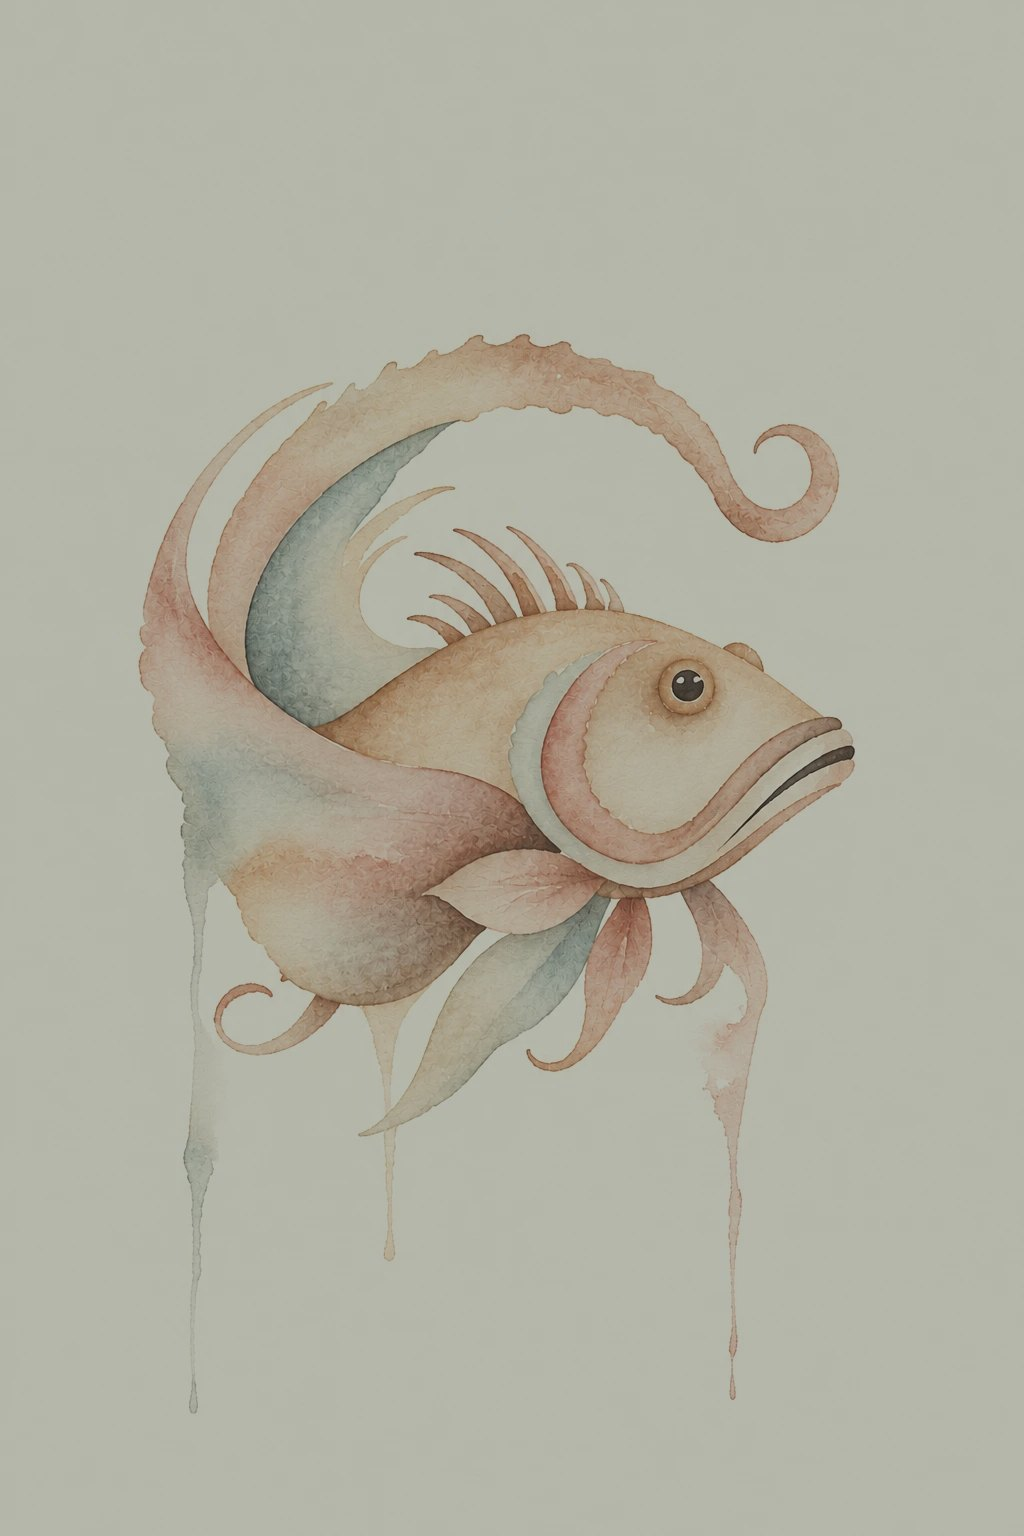
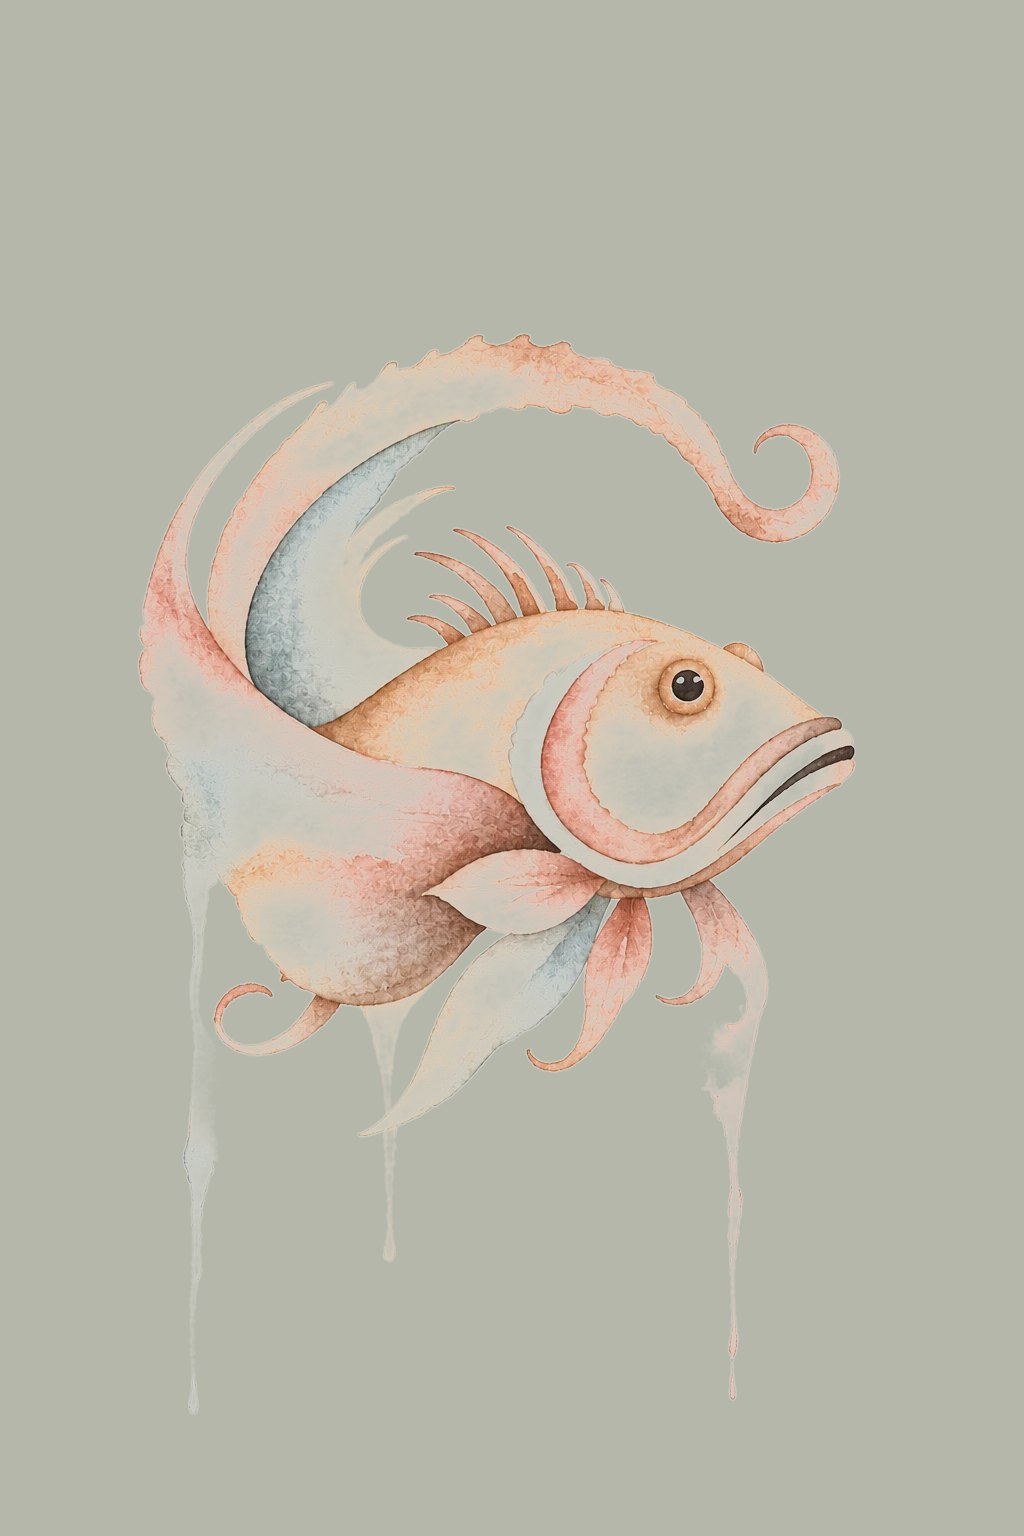
style: peces mas claros sin manchas del papel, y cabecera transparente sobre la portada en el ordenador

Changed region(s): [[0.125, 0.2188, 0.8438, 0.9062], [0.1562, 0.7188, 0.2188, 0.8438], [0.5312, 0.6875, 0.5625, 0.7188]]

diff --git a/index.html b/index.html
@@ -28,8 +28,8 @@
     <link rel="preconnect" href="https://fonts.googleapis.com" />
     <link rel="preconnect" href="https://fonts.gstatic.com" crossorigin />
     <link rel="stylesheet" href="https://fonts.googleapis.com/css2?family=Cormorant+Unicase:wght@400&display=swap" />
-    <link rel="stylesheet" href="assets/styles.css?v=138" />
-    <script src="assets/site.js?v=138" defer></script>
+    <link rel="stylesheet" href="assets/styles.css?v=139" />
+    <script src="assets/site.js?v=139" defer></script>
 
     <!-- Ficha del negocio para Google. Los horarios salen de las clases semanales;
          si cambian, hay que actualizarlos aquí además de en la sección Horarios. -->
@@ -117,9 +117,9 @@
           <div class="hero__bg" aria-hidden="true">
             <!-- Tres peces en acuarela. En el ordenador, uno a cada lado mirando hacia
                  el centro; en el movil solo el del centro, detras del texto. -->
-            <img class="hero__fish hero__fish--side" src="assets/images/hero-pez-izquierda.jpg?v=3" alt="" />
-            <img class="hero__fish hero__fish--center" src="assets/images/hero-pez.jpg?v=4" alt="" />
-            <img class="hero__fish hero__fish--side" src="assets/images/hero-pez-derecha.jpg?v=3" alt="" />
+            <img class="hero__fish hero__fish--side" src="assets/images/hero-pez-izquierda.jpg?v=4" alt="" />
+            <img class="hero__fish hero__fish--center" src="assets/images/hero-pez.jpg?v=5" alt="" />
+            <img class="hero__fish hero__fish--side" src="assets/images/hero-pez-derecha.jpg?v=4" alt="" />
           </div>
           <div class="hero__copy">
             <div class="hero__intro">

diff --git a/assets/styles.css b/assets/styles.css
@@ -84,6 +84,9 @@ figure, h1, h2, h3, p { margin-top: 0; }
 }
 
 .site-header.is-scrolled { border-color: rgba(52, 54, 46, 0.18); }
+/* Arriba del todo en la portada, la cabecera es transparente y deja ver el
+   fondo verde. Al bajar, vuelve a su fondo crema. */
+.is-home .site-header:not(.is-scrolled):not(.menu-is-open) { background: transparent; backdrop-filter: none; }
 
 .site-header.menu-is-open {
   color: var(--cream);
@@ -805,9 +808,6 @@ figure, h1, h2, h3, p { margin-top: 0; }
   .panel { min-height: auto; }
   /* La portada si sigue ocupando toda la pantalla, para que la foto se vea en alto. */
   .hero { min-height: 100svh; }
-  /* Arriba del todo en la portada, la cabecera no tapa la foto: es transparente
-     y la foto sube hasta el borde de la pantalla. Al bajar, vuelve a su fondo. */
-  .is-home .site-header:not(.is-scrolled):not(.menu-is-open) { background: transparent; backdrop-filter: none; }
   .section-shell, .section-shell--subpage { min-height: auto; padding-top: 116px; padding-bottom: 80px; }
   .offer-page .section-shell--subpage { padding-top: 116px; padding-bottom: 80px; justify-content: flex-start; }
   .hero h1 { font-size: clamp(4rem, 9vw, 7.5rem); }
